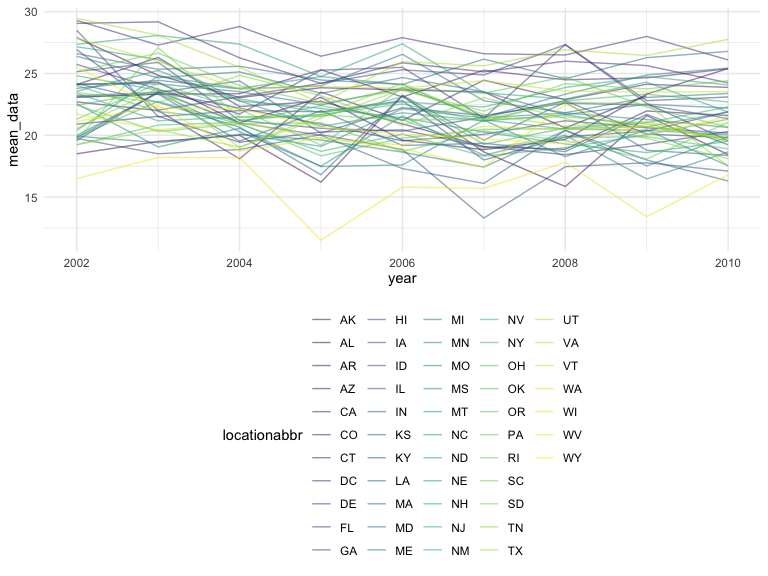
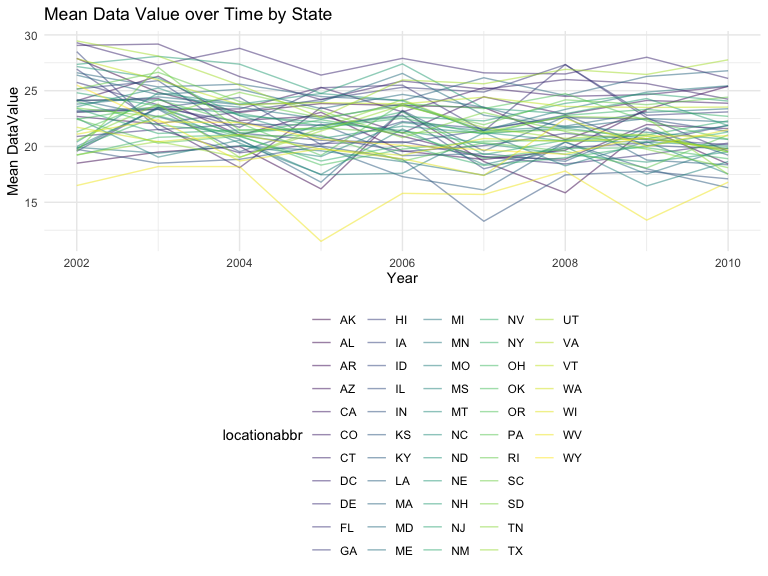
Completed PRoblem 3, added aesthetics to graphs and cleaned responses

diff --git a/p8105_hw3_kl3453.md b/p8105_hw3_kl3453.md
@@ -167,7 +167,7 @@ brfss_smart2010 =
 - format the data to use appropriate variable names;
 
 ``` r
-#COnvert variable names into snakecase
+#Convert variable names into snakecase
 brfss_smart2010 =
   brfss_smart2010 |> 
   janitor::clean_names()
@@ -180,10 +180,6 @@ brfss_smart2010 =
 brfss_overall_health =
   brfss_smart2010 |> 
   filter(topic == "Overall Health")
-
-# brfss_overall_health |>
-#   group_by(response) |> 
-#   count()
 ```
 
 - include only responses from “Excellent” to “Poor”:
@@ -213,7 +209,7 @@ brfss_overall_health =
     levels = c ("Poor", "Fair", "Good", "Very good", "Excellent"), 
     #the categorical variable "response" is ordered so we indicate it as so
     ordered = TRUE)
-    )
+    ) 
 ```
 
 ### Using this dataset, do or answer the following:
@@ -308,7 +304,12 @@ brfss_avg =
 ``` r
 brfss_avg |> 
   ggplot(aes(x = year, y = mean_data)) + 
-  geom_line(aes(color = locationabbr), alpha = .5)
+  geom_line(aes(color = locationabbr), alpha = .5) +
+  labs(
+    title = "Mean Data Value over Time by State",
+    x = "Year" ,
+    y = "Mean DataValue",
+  )
 ```
 
 <img src="p8105_hw3_kl3453_files/figure-gfm/unnamed-chunk-14-1.png" width="90%" />
@@ -328,8 +329,13 @@ brfssNY2006 =
 #Plot
 brfssNY2006plot = 
   brfssNY2006 |> 
-  ggplot(aes(x = response, y = data_value, color = locationdesc)) +
-  geom_point()
+  ggplot(aes(x = response, y = data_value)) +
+  geom_boxplot(aes(fill = response)) + 
+  labs(
+    title = "Distribution between responses among locations \n in NY: 2006",
+    x = "Response (Poor to Excellent)" ,
+    y = "Data Value Recorded",
+  )
 
 #NY in 2010
 brfssNY2010 =
@@ -339,8 +345,14 @@ brfssNY2010 =
 
 brfssNY2010plot =
   brfssNY2010 |> 
-  ggplot(aes(x = response, y = data_value, color = locationdesc)) +
-  geom_point()
+  ggplot(aes(x = response, y = data_value)) +
+  geom_boxplot(aes(fill = response)) +
+  labs(
+    title = "Distribution between responses among locations \n in NY: 2006",
+    x = "Response (Poor to Excellent)" ,
+    y = "Data Value Recorded",
+  )
+  
 
 brfssNY2006plot + brfssNY2010plot
 ```
@@ -414,7 +426,8 @@ accel_wide =
   pivot_longer(
     min1:min1440,
     names_to = "minuteofday", 
-    values_to = "mimsaccel")
+    values_to = "mimsaccel",
+    names_prefix = "min")
 ```
 
 - We tidy accel in order to allow it to merge with demo data.
@@ -452,7 +465,10 @@ demo_filter =
 ``` r
 #Merge
 accel_demo =
-  left_join(demo_filter, accel_wide, by = "seqn")
+  left_join(demo_filter, accel_wide, by = "seqn") |> 
+  
+  #Factor - minsofday (It is like a short continuous but I Just store in factors because it's ordered)
+  mutate(minuteofday = as.numeric(minuteofday))
 ```
 
 ## Produce a reader-friendly table…
@@ -462,15 +478,186 @@ visualization of the age distributions for men and women in each
 education category. Comment on these items.
 
 ``` r
-#Clean Data
-men_women_edu = 
-  demo_filter |> 
-  group_by(education) |> 
-  count(sex)
-
 #Plot
-men_women_edu_plot =
-  men_women_edu |> 
-  ggplot(aes(x = education, y = n, color = sex)) +
-  geom_point()
+  demo_filter |> 
+  ggplot(aes(x = education, y = age, color = sex)) +
+  geom_boxplot() +
+  labs(
+    title = "Distribution of Age in Men vs. Women among Education Level",
+    x = "Education Level",
+    y = "Age (Years)",
+    color = "Sex",
+  )
 ```
+
+<img src="p8105_hw3_kl3453_files/figure-gfm/unnamed-chunk-20-1.png" width="90%" />
+
+- It seems that those that have attained a higher education level, are
+  younger in age.
+
+## Traditional analyses of accelerometer data focus on the total activity over the day.
+
+Using your tidied dataset, aggregate across minutes to create a total
+activity variable for each participant. Plot these total activities
+(y-axis) against age (x-axis); your plot should compare men to women and
+have separate panels for each education level. Include a trend line or a
+smooth to illustrate differences. Comment on your plot.
+
+``` r
+#Clean Data
+total_activity = 
+  accel_demo |> 
+  group_by(seqn,age, education, sex) |> 
+  summarize(sum_mim = sum(mimsaccel))
+```
+
+    ## `summarise()` has grouped output by 'seqn', 'age', 'education'. You can
+    ## override using the `.groups` argument.
+
+``` r
+#plot
+#Separate into 3 Education GRoups (in order to plot panels)
+education1 = 
+  total_activity |> 
+  filter(education == 1) |> 
+  ggplot(aes(x = age, y = sum_mim, color = sex)) +
+  geom_point() +
+  geom_smooth() + 
+  labs(
+    title = "Education 1: Less than HS",
+    x = "Age (Years)",
+    y = "Total Accellerometer Data",
+    color = "Sex",
+  )
+
+education2 =
+  total_activity |> 
+  filter(education == 2) |> 
+  ggplot(aes(x = age, y = sum_mim, color = sex)) +
+  geom_point() +
+  geom_smooth() + 
+  labs(
+    title = "Education 2: HS Equivalent",
+    x = "Age (Years)",
+    y = "Total Accellerometer Data",
+    color = "Sex",
+  )
+
+education3 = 
+  total_activity |> 
+  filter(education == 3) |> 
+  ggplot(aes(x = age, y = sum_mim, color = sex)) +
+  geom_point() +
+  geom_smooth() + 
+  labs(
+    title = "Education 3: More than HS",
+    x = "Age (Years)",
+    y = "Total Accellerometer Data",
+    color = "Sex",
+  )
+
+education1 + education2 + education3
+```
+
+    ## `geom_smooth()` using method = 'loess' and formula = 'y ~ x'
+    ## `geom_smooth()` using method = 'loess' and formula = 'y ~ x'
+    ## `geom_smooth()` using method = 'loess' and formula = 'y ~ x'
+
+<img src="p8105_hw3_kl3453_files/figure-gfm/unnamed-chunk-21-1.png" width="90%" />
+
+- For all 3 education groups there is an overall decreasing trend in
+  total accelerometer activity as age increases.
+- For education groups 2 and 3, it seems like the total accerometer
+  activity in females is a bit higher than males
+
+## Make a three-panel plot…
+
+that shows the 24-hour activity time courses for each education level
+and use color to indicate sex. Describe in words any patterns or
+conclusions you can make based on this graph; including smooth trends
+may help identify differences.
+
+``` r
+#Clean Data
+accel_overtime = 
+  accel_demo |> 
+  group_by(minuteofday, education, sex) |> 
+  summarize(mean_min = mean(mimsaccel))
+```
+
+    ## `summarise()` has grouped output by 'minuteofday', 'education'. You can
+    ## override using the `.groups` argument.
+
+``` r
+#plot data
+edu1time = 
+  accel_overtime |> 
+  filter(education == 1) |> 
+  ggplot(aes(x = minuteofday, y = mean_min, color = sex)) +
+  geom_line(alpha = 0.5) + 
+  geom_smooth() +
+  labs(
+    title = "Education 1: Less than HS",
+    x = "ith Minute of the Day",
+    y = "Total Accellerometer Data",
+    color = "Sex",
+  ) + 
+  scale_x_continuous(
+    breaks = c(0, 720, 1440), 
+    labels = c("0", "720", "1440")
+  )
+
+edu2time = 
+  accel_overtime |> 
+  filter(education == 2) |> 
+  ggplot(aes(x = minuteofday, y = mean_min, color = sex)) +
+  geom_line(alpha = 0.5) + 
+  geom_smooth() +
+  labs(
+    title = "Education 2: HS Equivalent",
+    x = "ith Minute of the Day",
+    y = "Total Accellerometer Data",
+    color = "Sex",
+  ) + 
+  scale_x_continuous(
+    breaks = c(0, 720, 1440), 
+    labels = c("0", "720", "1440")
+  )
+
+
+edu3time = 
+  accel_overtime |> 
+  filter(education == 3) |> 
+  ggplot(aes(x = minuteofday, y = mean_min, color = sex)) + 
+  geom_line(alpha = 0.5) + 
+  geom_smooth() +
+  labs(
+    title = "Education 3: More thanHS",
+    x = "ith Minute of the Day",
+    y = "Total Accellerometer Data",
+    color = "Sex",
+  ) + 
+  scale_x_continuous(
+    breaks = c(0, 720, 1440), 
+    labels = c("0", "720", "1440")
+  )
+ 
+
+edu1time + edu2time + edu3time
+```
+
+    ## `geom_smooth()` using method = 'gam' and formula = 'y ~ s(x, bs = "cs")'
+    ## `geom_smooth()` using method = 'gam' and formula = 'y ~ s(x, bs = "cs")'
+    ## `geom_smooth()` using method = 'gam' and formula = 'y ~ s(x, bs = "cs")'
+
+<img src="p8105_hw3_kl3453_files/figure-gfm/unnamed-chunk-22-1.png" width="90%" />
+
+- Among those with Education Level 1, it seems that male and females
+  generally have similar activities throughout the day except for during
+  the beginning quarter of the day where males are a little more active
+  and towards the end, females slightly are more active
+
+- Ïor education levels 2 and 3, there are similar trends. During the
+  beginning of the day, activity is similar among males and females
+  however as the day progresses into middle of day, females are more
+  active than males until the day ends.
